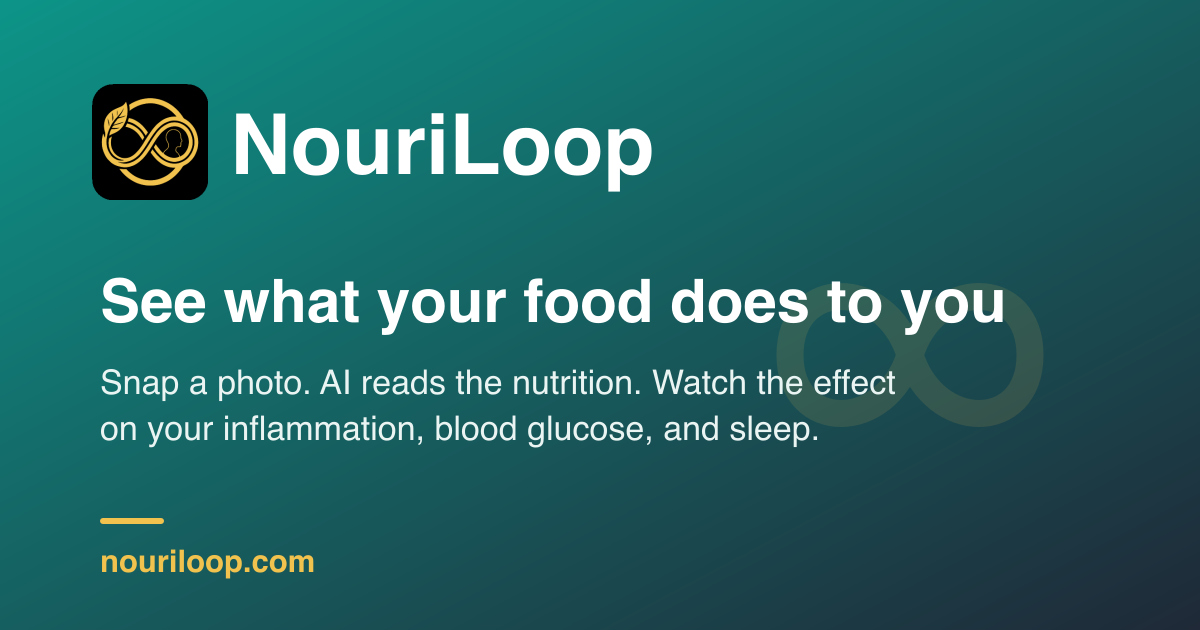
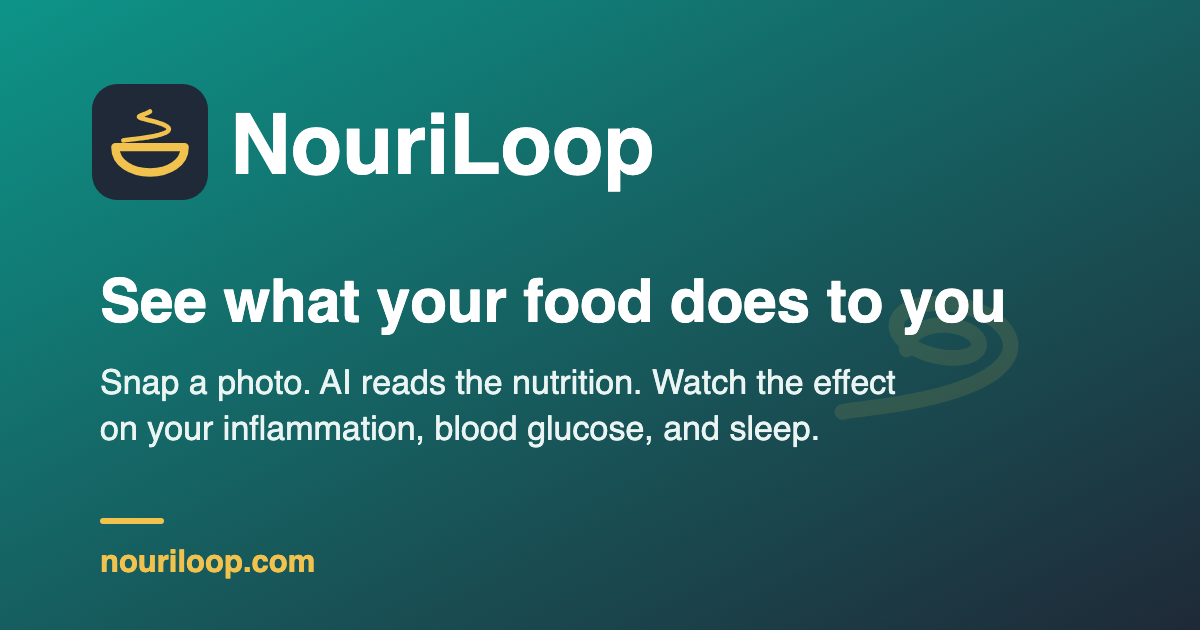
A new mark: a bowl with a coil of steam
Replaces the gold infinity-loop-leaf-head mark, which blurred at favicon
size and sat among many look-alike wellness logos. The new mark is a bowl
with a coil of steam seen from the side, gold on slate. Every icon in
public/ is rendered from one vector source kept in the business folder:
the bare mark for the navbar, a rounded tile for the sign-in pages and
favicons, full-bleed tiles for the maskable app icons, and the og-card
carries the tile inline instead of an embedded PNG.

Beside its name at navbar size the text baseline now sits on the bottom
edge of the bowl's rim line (.brand-lockup) rather than centred on the
mark; an operator's own logo keeps the centred lockup.

diff --git a/.claude/rules/public-pages.md b/.claude/rules/public-pages.md
@@ -150,14 +150,16 @@ stays out of the index.
   per-page blurb); everything else inherits the marketing default. **Authenticated pages
   get `<meta name="robots" content="noindex">`** (emitted when `app.user` is set) as a
   backstop to robots.txt — no private/health page is ever indexed.
-- **OG card:** `public/images/og-card.png` (1200×630, brand teal→slate + the real
-  `auth-logo.png` mark), referenced via `absolute_url(asset(...))`. Committed to git (like
+- **OG card:** `public/images/og-card.png` (1200×630, brand teal→slate + the app-icon tile
+  of the bowl-and-steam mark), referenced via `absolute_url(asset(...))`. Committed to git (like
   the help screenshots, **not** under gitignored `public/uploads/`). The **source is
-  `public/images/og-card.svg`** (self-contained — the logo is embedded as a base64 data
-  URI), so a tweak is a one-line regenerate:
+  `public/images/og-card.svg`** (self-contained — since 2026-10-24 the mark is inline SVG, the
+  same tile as the app icon, not an embedded PNG), so a tweak is a one-line regenerate:
   `rsvg-convert -w 1200 -h 630 public/images/og-card.svg -o public/images/og-card.png`
   (needs `librsvg`/`rsvg-convert` — `brew install librsvg`; ImageMagick's built-in SVG
-  renderer drops `url()` gradients and can't resolve fonts, so use rsvg).
+  renderer drops `url()` gradients and can't resolve fonts, so use rsvg). Headless Chrome
+  (`--screenshot --window-size=1200,630` on an HTML wrapper) renders it identically and is
+  what produced the 2026-10-24 card.
 - Covered by `tests/E2E/SeoTest` (robots public + no `/dashboard` rule; sitemap is valid
   XML listing every help topic; `/about` carries title/description/canonical/OG; public
   page indexable, authenticated page noindex).

diff --git a/.claude/rules/branding.md b/.claude/rules/branding.md
@@ -47,6 +47,20 @@ the same PR as any change to it.
   else NouriLoop's own asset of the right size on the hosted service (`auth-logo.png`,
   `navbar-logo.png`, `icon-192x192.png`), else a neutral `bi-egg-fried` icon on pages and
   nothing in email.
+- **NouriLoop's mark (2026-10-24)** is a bowl with a coil of steam seen from the side, gold
+  (`#f1c24d`) on slate (`#1f2937`). It replaced the gold infinity-loop-leaf-head mark, which
+  blurred at favicon size and sat in a crowd of look-alike wellness logos (the search record is
+  in the business folder, `logo/HANDOFF-logo-favicon.md`). One vector source, kept in the business
+  folder (`logo/app-n1-steam-surface.svg`); every PNG in `public/` is rendered from it:
+  `navbar-logo.png` is the bare gold mark on transparent; `auth-logo.png` and the favicons are the
+  mark on a rounded slate tile; `apple-touch-icon.png`, `icon-192x192.png` and `icon-512x512.png`
+  are full-bleed slate (the manifest marks them maskable). `public/images/og-card.svg` carries the
+  same tile inline.
+- **Lockup rule** (John, 2026-10-24): beside its name at navbar size, NouriLoop's mark is not
+  centred on the text — the text baseline sits on the bottom edge of the bowl's rim line
+  (`.brand-lockup` in `base.html.twig`: at 32 px the image hangs 12.7 px below the baseline;
+  `lp/_layout.html.twig` does the same at 28 px). An operator's own logo keeps the centred flex
+  lockup, since the rule is about this drawing.
 - **`OPERATOR_EMAIL`, `PRIVACY_URL`, `TERMS_URL`, `SOURCE_URL`** (default
   `Brand::DEFAULT_SOURCE_URL`, the public repo).
 - Templates: the **`brand`** Twig global (`brand.name`, `brand.isNouriLoop`,

diff --git a/CHANGELOG.md b/CHANGELOG.md
@@ -10,6 +10,11 @@ listed.
 
 ## Unreleased
 
+### Changed
+- A new NouriLoop mark: a bowl with a coil of steam, gold on slate, in the navbar, on the
+  sign-in pages, as the app and home-screen icon, the browser-tab icon and the link preview
+  card. The old infinity loop blurred at tab size.
+
 ### Security
 - Symfony updated within 7.4 for three advisories: a ReDoS in `symfony/http-foundation`
   reachable through the `Cache-Control` request header (CVE-2026-108082), unbounded recursion
